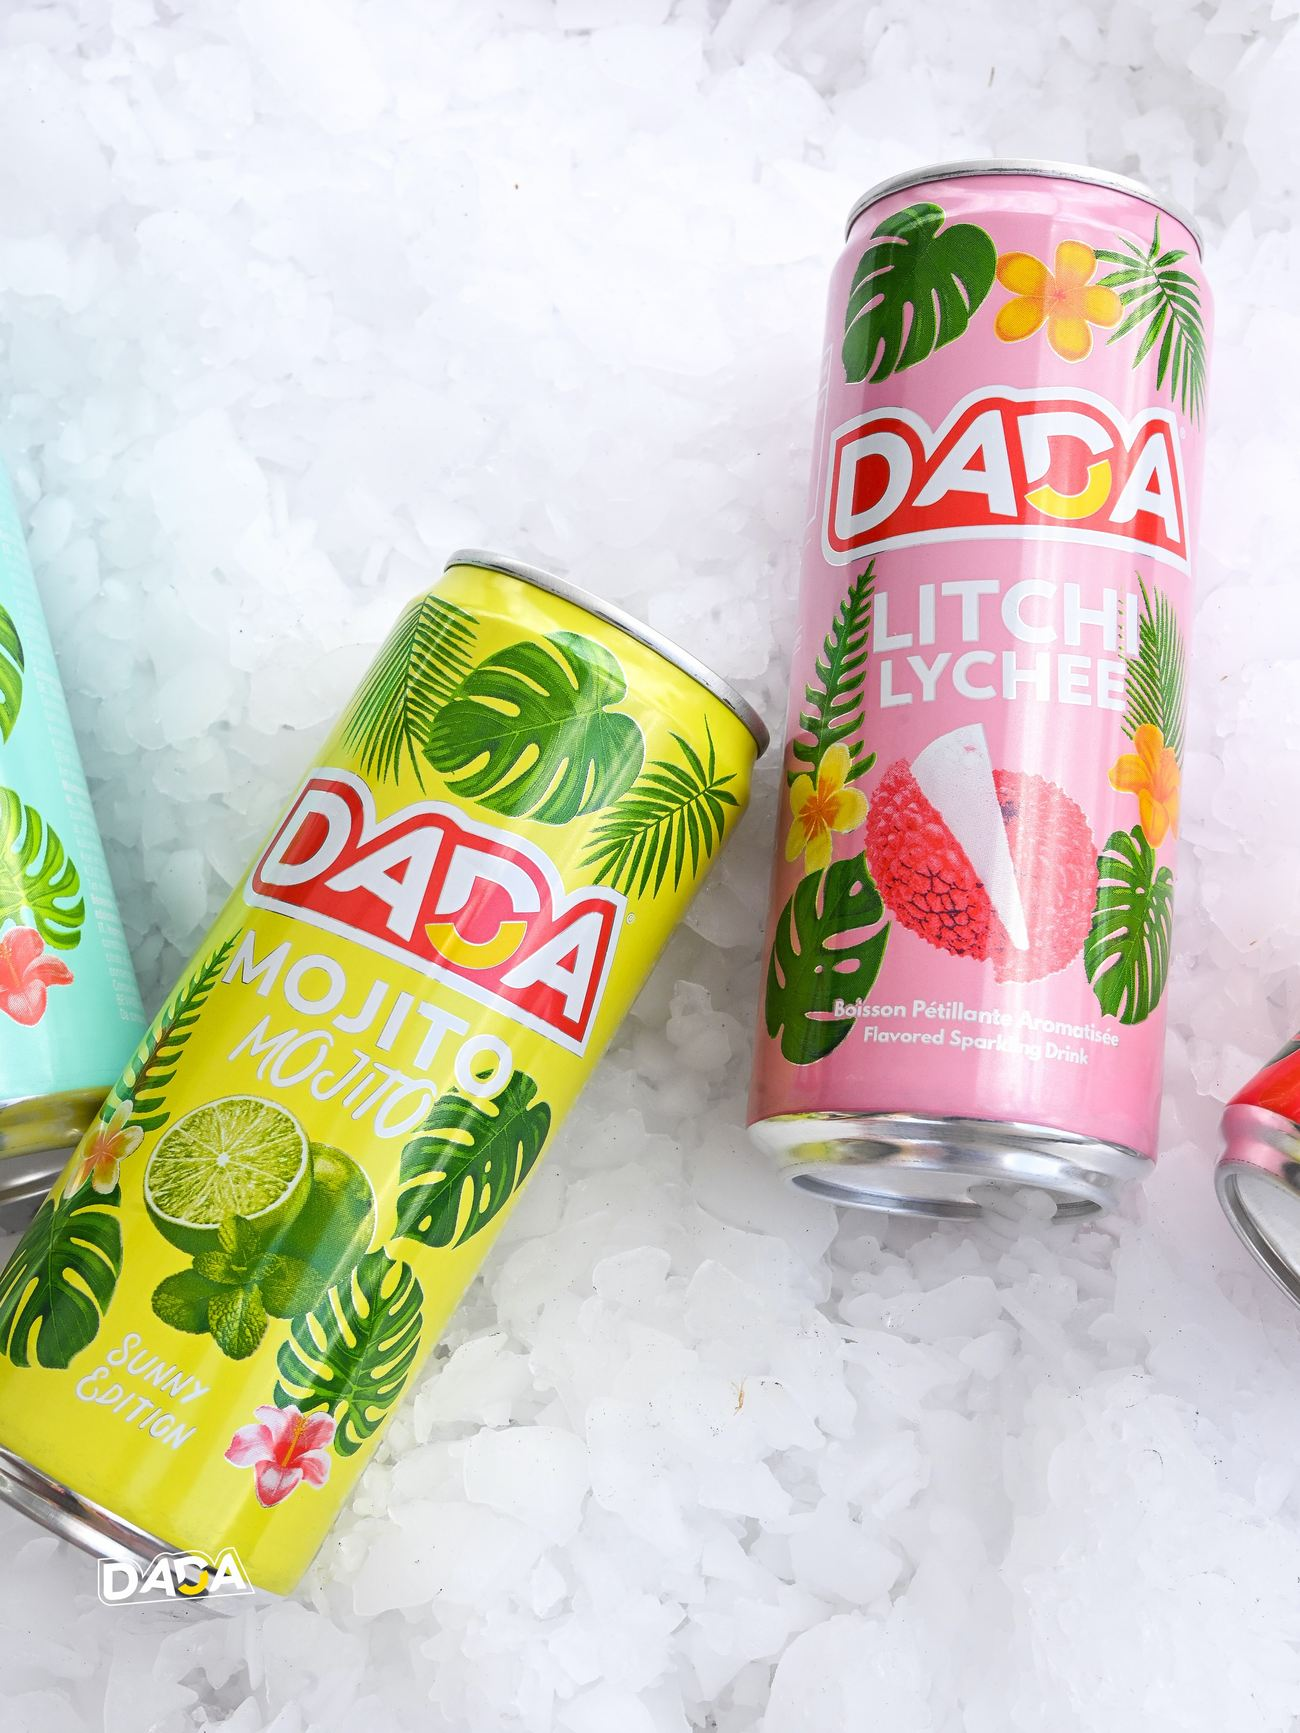
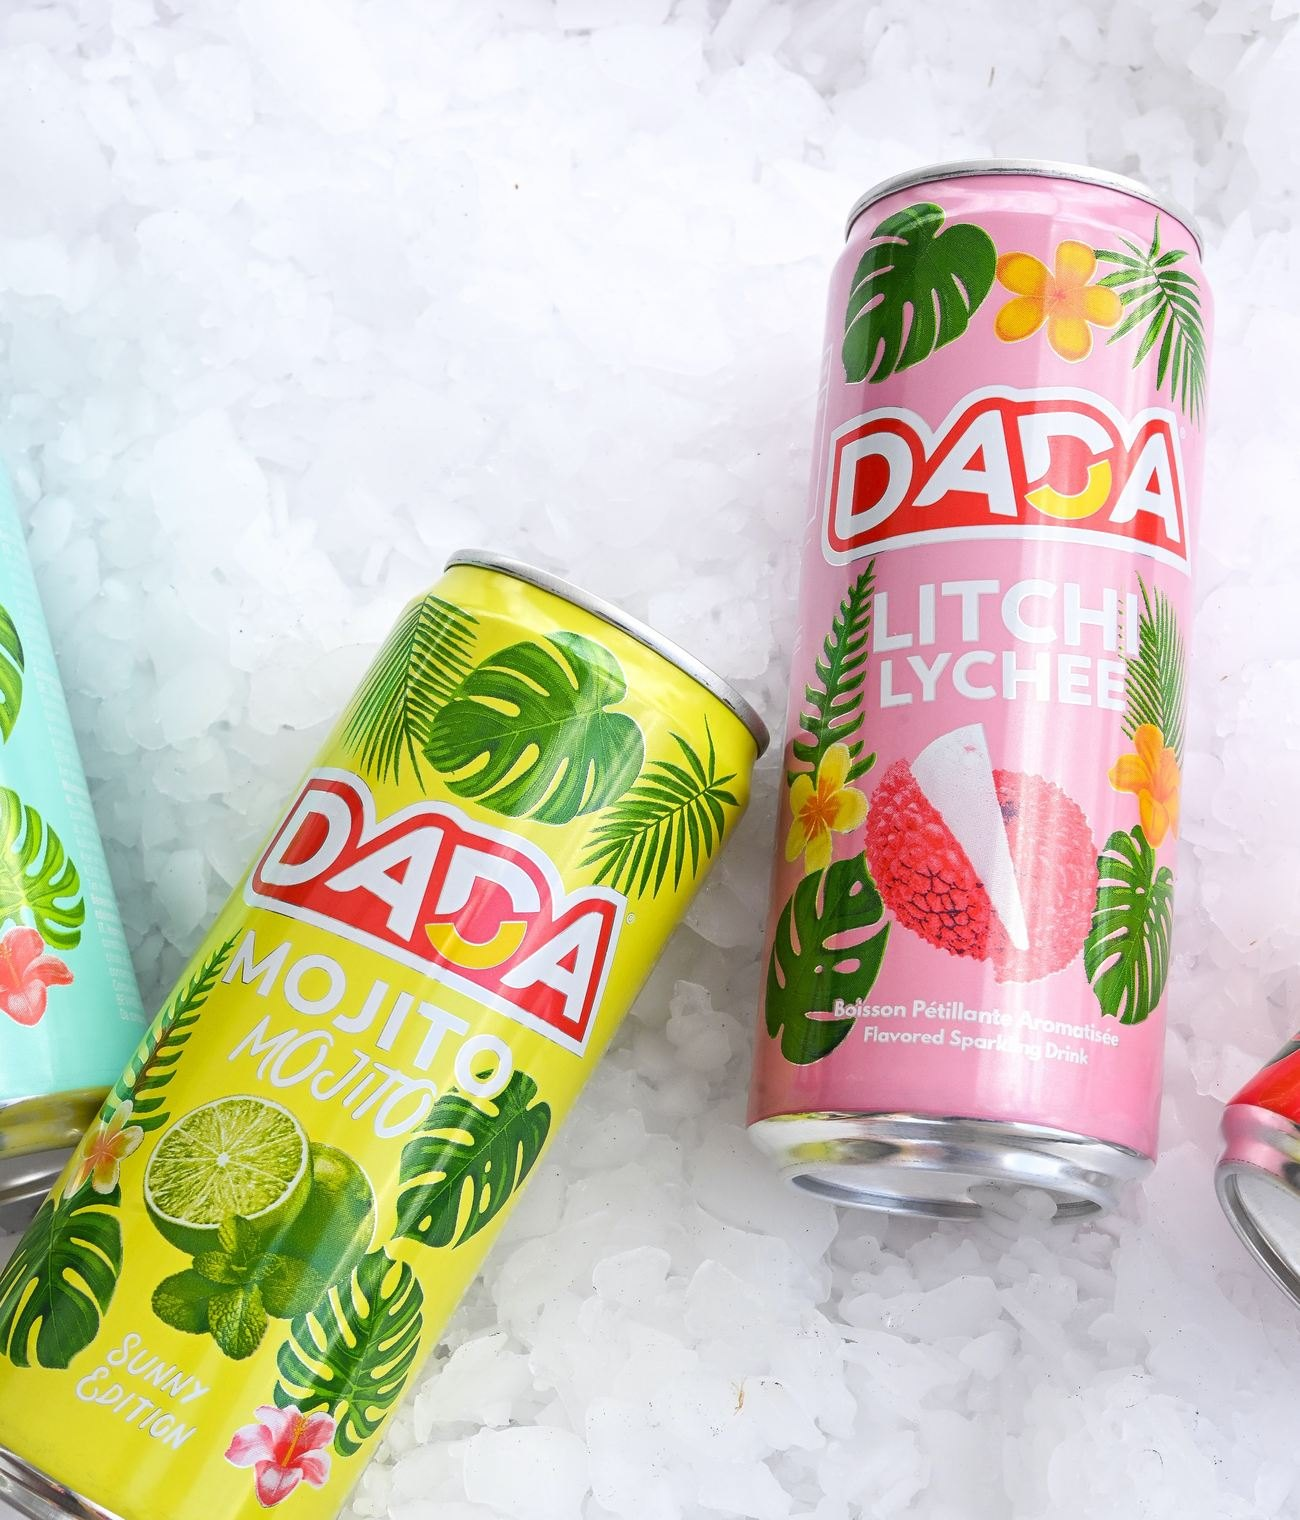
v62 : marges de l'histoire, halo du tube, bandeau mobile, photo particuliers
- histoire : les chapitres retrouvent les marges latérales du conteneur
  (bord à bord sur mobile/tablette, décalés de la grille sur desktop)
- tube de verre : boîte élargie pour que le masque de fondu ne coupe plus le
  halo (trait vertical net le long du texte)
- accueil : bandeau incliné rogné dans un conteneur — sur mobile il élargissait
  la zone d'affichage à 399 px (nav fixe décalée, glissement horizontal)
- particuliers : photo recadrée (logo du bas retiré)
- collaborations : étiquette du reel raccourcie sur mobile
- cache v62

diff --git a/css/style.css b/css/style.css
@@ -276,6 +276,9 @@ button{font-family:inherit;cursor:none;border:none;background:none;color:inherit
 .band{padding:22px 0;overflow:hidden;transform:rotate(-1.4deg) scale(1.04);margin:70px 0;
   background:linear-gradient(90deg,#E2001A,#E3023B,#FF3B45,#C81C2E,#B00010,#E2001A);
   background-size:200% 100%;box-shadow:0 24px 70px -22px rgba(226,0,26,.55)}
+/* rogne les coins du bandeau incliné : sinon, sur mobile, il élargit la zone d'affichage (nav fixe décalée) ;
+   pas d'overflow sur html/body pour ça — ça casse les sections épinglées */
+.band-clip{overflow:hidden;padding:40px 0;margin:-40px 0;pointer-events:none}  /* marge = place pour l'ombre */
 .band-track{display:flex;gap:34px;width:max-content;align-items:center;will-change:transform}
 .band-track span{font-family:var(--font-display);font-weight:900;font-size:clamp(22px,3vw,42px);text-transform:uppercase;color:#fff;letter-spacing:-.01em;text-shadow:0 2px 12px rgba(0,0,0,.18)}
 .band-track b{color:rgba(10,1,3,.85);font-size:clamp(16px,2vw,26px)}
@@ -897,7 +900,7 @@ button{font-family:inherit;cursor:none;border:none;background:none;color:inherit
 /* ============================================================
    HISTOIRE — story éditoriale (images + texte alterné)
    ============================================================ */
-.story-wrap{display:flex;flex-direction:column;gap:clamp(56px,10vh,130px);padding:clamp(40px,7vh,90px) 0}
+.story-wrap{display:flex;flex-direction:column;gap:clamp(56px,10vh,130px);padding-top:clamp(40px,7vh,90px);padding-bottom:clamp(40px,7vh,90px)}
 .story{display:grid;grid-template-columns:1fr 1fr;gap:clamp(28px,5vw,80px);align-items:center}
 .story:nth-of-type(even) .story-media{order:2}
 .story-media{position:relative;border-radius:30px;overflow:hidden;aspect-ratio:4/5;background:#160A0C;
@@ -1176,4 +1179,6 @@ button{font-family:inherit;cursor:none;border:none;background:none;color:inherit
   .vibe-phones{justify-content:center;width:min(420px,94vw)}
   .vibe-phones .vibe-player:not(.vibe-player--back){width:min(260px,62vw);transform:translateX(16%) rotate(2.5deg)}
   .vibe-phones .vibe-player--back{width:min(190px,44vw);left:2%}
+  .vibe-player--back .vibe-tag{right:auto;left:10px;bottom:10px}
+  .vibe-player--back .vt-more{display:none}
 }

diff --git a/collaborations.html b/collaborations.html
@@ -18,7 +18,7 @@
 <meta property="og:image" content="https://viudesdominique12-droid.github.io/dada-drinks-site/assets/photos/zoom-4.jpg" />
 <meta property="og:url" content="https://viudesdominique12-droid.github.io/dada-drinks-site/collaborations.html" />
 <meta name="twitter:card" content="summary_large_image" />
-<link rel="stylesheet" href="css/style.css?v=61" />
+<link rel="stylesheet" href="css/style.css?v=62" />
 </head>
 <body>
 
@@ -116,7 +116,7 @@
       <div class="vibe-phones">
       <div class="vibe-player vibe-player--back" aria-hidden="true">
         <video src="assets/insta/reel-da.mp4" poster="assets/insta/reel-da-poster.jpg" autoplay muted loop playsinline preload="metadata"></video>
-        <span class="vibe-tag">Reel · Notre DA, la super-héroïne</span>
+        <span class="vibe-tag">Reel<span class="vt-more"> · Notre DA, la super-héroïne</span></span>
       </div>
       <div class="vibe-player">
         <video id="vibeVideo" src="assets/video/dada-vibe.mp4?v=2" poster="assets/video/dada-vibe-poster.jpg" autoplay muted loop playsinline preload="metadata"></video>
@@ -182,7 +182,7 @@
 <script src="https://cdnjs.cloudflare.com/ajax/libs/gsap/3.13.0/gsap.min.js"></script>
 <script src="https://cdnjs.cloudflare.com/ajax/libs/gsap/3.13.0/ScrollTrigger.min.js"></script>
 <script src="https://cdn.jsdelivr.net/npm/lenis@1.1.14/dist/lenis.min.js"></script>
-<script src="js/main.js?v=61"></script>
-<script src="js/fx.js?v=61"></script>
+<script src="js/main.js?v=62"></script>
+<script src="js/fx.js?v=62"></script>
 </body>
 </html>

diff --git a/particuliers.html b/particuliers.html
@@ -18,7 +18,7 @@
 <meta property="og:image" content="https://viudesdominique12-droid.github.io/dada-drinks-site/assets/photos/zoom-4.jpg" />
 <meta property="og:url" content="https://viudesdominique12-droid.github.io/dada-drinks-site/particuliers.html" />
 <meta name="twitter:card" content="summary_large_image" />
-<link rel="stylesheet" href="css/style.css?v=61" />
+<link rel="stylesheet" href="css/style.css?v=62" />
 </head>
 <body>
 
@@ -48,7 +48,7 @@
         <p class="ph-sub">Des fines bulles, des arômes de vrais fruits, une canette transparente unique. Trouve ton parfum et fais le plein de peps.</p>
       </div>
       <div class="ph-visual">
-        <img src="assets/insta/ice-cans.jpg" alt="Canettes Dada Mojito et Litchi posées sur de la glace pilée" loading="eager" draggable="false" style="object-position:center 26%" />
+        <img src="assets/insta/ice-cans.jpg" alt="Canettes Dada Mojito et Litchi posées sur de la glace pilée" loading="eager" draggable="false" style="object-position:center 30%" />
       </div>
     </div>
   </section>
@@ -141,7 +141,7 @@
 <script src="https://cdnjs.cloudflare.com/ajax/libs/gsap/3.13.0/gsap.min.js"></script>
 <script src="https://cdnjs.cloudflare.com/ajax/libs/gsap/3.13.0/ScrollTrigger.min.js"></script>
 <script src="https://cdn.jsdelivr.net/npm/lenis@1.1.14/dist/lenis.min.js"></script>
-<script src="js/main.js?v=61"></script>
-<script src="js/fx.js?v=61"></script>
+<script src="js/main.js?v=62"></script>
+<script src="js/fx.js?v=62"></script>
 </body>
 </html>

diff --git a/index.html b/index.html
@@ -18,7 +18,7 @@
 <meta property="og:image" content="https://viudesdominique12-droid.github.io/dada-drinks-site/assets/photos/zoom-4.jpg" />
 <meta property="og:url" content="https://viudesdominique12-droid.github.io/dada-drinks-site/index.html" />
 <meta name="twitter:card" content="summary_large_image" />
-<link rel="stylesheet" href="css/style.css?v=61" />
+<link rel="stylesheet" href="css/style.css?v=62" />
 </head>
 <body>
 
@@ -105,6 +105,7 @@
 </section>
 
 <!-- MARQUEE BAND -->
+<div class="band-clip">
 <section class="band" aria-hidden="true">
   <div class="band-track">
     <span>Pétillante</span><b>✦</b><span>Fruitée</span><b>✦</b><span>Sans compromis</span><b>✦</b>
@@ -113,6 +114,7 @@
     <span>Canette transparente</span><b>✦</b><span>13 parfums</span><b>✦</b><span>Made in banlieue</span><b>✦</b>
   </div>
 </section>
+</div>
 
 <!-- MANIFESTE -->
 <section class="manifeste" id="manifeste">
@@ -367,7 +369,7 @@
 <script src="https://cdnjs.cloudflare.com/ajax/libs/gsap/3.13.0/gsap.min.js"></script>
 <script src="https://cdnjs.cloudflare.com/ajax/libs/gsap/3.13.0/ScrollTrigger.min.js"></script>
 <script src="https://cdn.jsdelivr.net/npm/lenis@1.1.14/dist/lenis.min.js"></script>
-<script src="js/main.js?v=61"></script>
-<script src="js/fx.js?v=61"></script>
+<script src="js/main.js?v=62"></script>
+<script src="js/fx.js?v=62"></script>
 </body>
 </html>

diff --git a/professionnels.html b/professionnels.html
@@ -18,7 +18,7 @@
 <meta property="og:image" content="https://viudesdominique12-droid.github.io/dada-drinks-site/assets/photos/zoom-4.jpg" />
 <meta property="og:url" content="https://viudesdominique12-droid.github.io/dada-drinks-site/professionnels.html" />
 <meta name="twitter:card" content="summary_large_image" />
-<link rel="stylesheet" href="css/style.css?v=61" />
+<link rel="stylesheet" href="css/style.css?v=62" />
 </head>
 <body>
 
@@ -202,7 +202,7 @@
 <script src="https://cdnjs.cloudflare.com/ajax/libs/gsap/3.13.0/gsap.min.js"></script>
 <script src="https://cdnjs.cloudflare.com/ajax/libs/gsap/3.13.0/ScrollTrigger.min.js"></script>
 <script src="https://cdn.jsdelivr.net/npm/lenis@1.1.14/dist/lenis.min.js"></script>
-<script src="js/main.js?v=61"></script>
-<script src="js/fx.js?v=61"></script>
+<script src="js/main.js?v=62"></script>
+<script src="js/fx.js?v=62"></script>
 </body>
 </html>

diff --git a/histoire.html b/histoire.html
@@ -18,7 +18,7 @@
 <meta property="og:image" content="https://viudesdominique12-droid.github.io/dada-drinks-site/assets/photos/zoom-4.jpg" />
 <meta property="og:url" content="https://viudesdominique12-droid.github.io/dada-drinks-site/histoire.html" />
 <meta name="twitter:card" content="summary_large_image" />
-<link rel="stylesheet" href="css/style.css?v=61" />
+<link rel="stylesheet" href="css/style.css?v=62" />
 </head>
 <body>
 
@@ -223,7 +223,7 @@
 <script src="https://cdnjs.cloudflare.com/ajax/libs/gsap/3.13.0/gsap.min.js"></script>
 <script src="https://cdnjs.cloudflare.com/ajax/libs/gsap/3.13.0/ScrollTrigger.min.js"></script>
 <script src="https://cdn.jsdelivr.net/npm/lenis@1.1.14/dist/lenis.min.js"></script>
-<script src="js/main.js?v=61"></script>
-<script src="js/fx.js?v=61"></script>
+<script src="js/main.js?v=62"></script>
+<script src="js/fx.js?v=62"></script>
 </body>
 </html>

diff --git a/contact.html b/contact.html
@@ -18,7 +18,7 @@
 <meta property="og:image" content="https://viudesdominique12-droid.github.io/dada-drinks-site/assets/photos/zoom-4.jpg" />
 <meta property="og:url" content="https://viudesdominique12-droid.github.io/dada-drinks-site/contact.html" />
 <meta name="twitter:card" content="summary_large_image" />
-<link rel="stylesheet" href="css/style.css?v=61" />
+<link rel="stylesheet" href="css/style.css?v=62" />
 </head>
 <body>
 
@@ -270,7 +270,7 @@
 <script src="https://cdnjs.cloudflare.com/ajax/libs/gsap/3.13.0/gsap.min.js"></script>
 <script src="https://cdnjs.cloudflare.com/ajax/libs/gsap/3.13.0/ScrollTrigger.min.js"></script>
 <script src="https://cdn.jsdelivr.net/npm/lenis@1.1.14/dist/lenis.min.js"></script>
-<script src="js/main.js?v=61"></script>
-<script src="js/fx.js?v=61"></script>
+<script src="js/main.js?v=62"></script>
+<script src="js/fx.js?v=62"></script>
 </body>
 </html>

diff --git a/js/fx.js b/js/fx.js
@@ -327,7 +327,9 @@
             enter = st1.getBoundingClientRect().top - wr.top - topRel;
           }
           const eX = eCx - wr.left;
-          const pad = Math.max(lane / 2, 50);
+          // marge au-delà du couloir : le masque de fondu (.juice-pipe) rogne tout ce qui dépasse
+          // de la boîte, halo compris — sans elle, un trait vertical net apparaît le long du texte
+          const pad = Math.max(lane / 2, 50) + 72;
           const left = Math.min(eX, gapX) - pad, right = Math.max(eX, gapX) + pad;
           Object.assign(geo, { eX: eX - left, gX: gapX - left, lane, enter: Math.max(120, enter) });
           box.style.transform = 'none';
